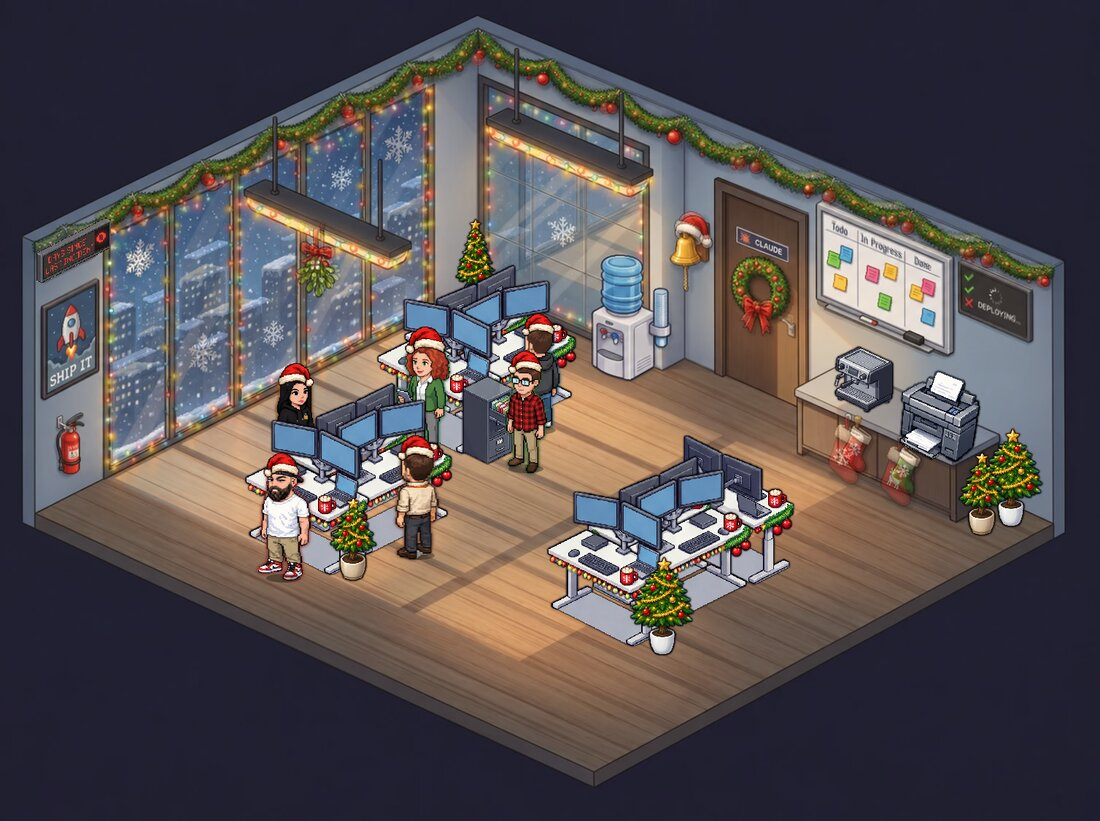
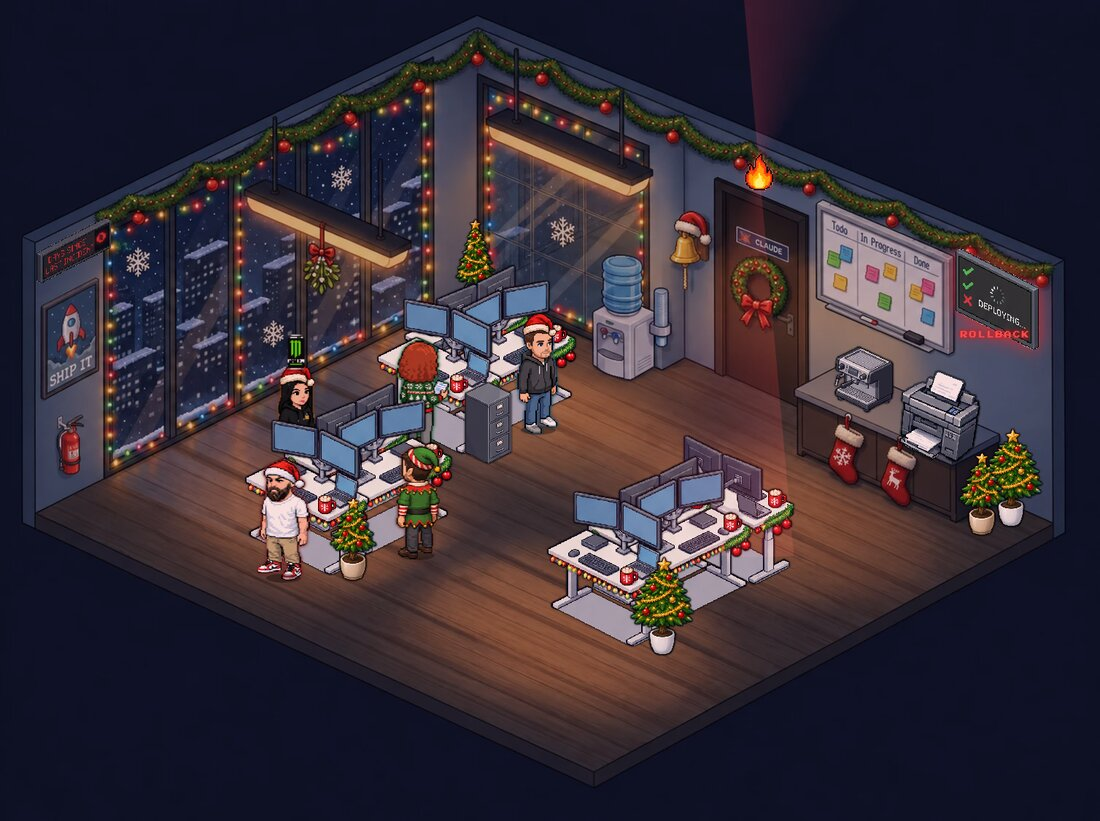
Christmas: elf Claude back, jumpers for ponytails and big hair, boss's cap becomes a Santa hat
- Claude-1 keeps the elf suit (festive copies restored).
- employee-2, erin-hannon and Frontend-dev-1, whom the one-size hat did not
  fit (ponytails, big hair), wear Christmas jumpers instead.
- Me-1's backwards cap is replaced by a Santa hat in the sprite itself.
- The overlay hat skips any sprite drawn from its festive copy, and the NO_HAT
  list (src/hat.ts) keeps it off those characters even before their art exists.

diff --git a/tests/hat.test.ts b/tests/hat.test.ts
@@ -1,7 +1,7 @@
 /** hat.ts - finding a sprite's head from its alpha channel. */
 import { readFileSync } from 'node:fs'
 import { describe, expect, it } from 'vitest'
-import { headAnchorFromAlpha } from '../src/hat'
+import { headAnchorFromAlpha, wearsOverlayHat } from '../src/hat'
 
 /** An alpha map of w x h with opaque rectangles [x0, y0, x1, y1) */
 function alphaWith(w: number, h: number, rects: Array<[number, number, number, number]>) {
@@ -29,5 +29,16 @@ describe('headAnchorFromAlpha', () => {
 
   it('the hat it is drawn from exists', () => {
     expect(readFileSync(new URL('../public/sprites/effects/santa-hat.png', import.meta.url)).length).toBeGreaterThan(1000)
+  })
+})
+
+describe('wearsOverlayHat', () => {
+  it('everyone gets the hat except festive copies and the ponytail / big-hair list', () => {
+    expect(wearsOverlayHat('/sprites/characters/dev-1-front-left.png')).toBe(true)
+    expect(wearsOverlayHat('/sprites/office/characters/jim-halpert-rear-right.png')).toBe(true)
+    expect(wearsOverlayHat('/sprites/characters/Claude-1-front-left-xmas.webp')).toBe(false)
+    expect(wearsOverlayHat('/sprites/characters/employee-2-front-right.png')).toBe(false)
+    expect(wearsOverlayHat('/sprites/office/characters/erin-hannon-rear-left.png')).toBe(false)
+    expect(wearsOverlayHat('/sprites/characters/Me-1-front-left.png')).toBe(false)
   })
 })

diff --git a/src/hat.ts b/src/hat.ts
@@ -13,6 +13,25 @@ import { useEffect, useState } from 'react'
 
 export const HAT_SRC = '/sprites/effects/santa-hat.png'
 
+// Why: on a ponytail, a bun or big hair the one-size hat sits wrong (judged
+// on all four directions of every cast sprite); these characters wear their
+// own festive sprite instead (a Christmas jumper, -xmas.webp), and until that
+// file exists they simply go without a hat rather than wear a bad one
+const NO_HAT = new Set(['employee-2', 'erin-hannon', 'Frontend-dev-1', 'Me-1'])
+
+/**
+ * Whether a sprite gets the overlay hat: not when it is already a festive
+ * copy (the elf, a jumper, a sprite with its own Santa hat), and not for the
+ * characters in NO_HAT.
+ * @param src the sprite URL being drawn
+ */
+export function wearsOverlayHat(src: string): boolean {
+  if (src.endsWith('-xmas.webp')) return false
+  const file = src.slice(src.lastIndexOf('/') + 1)
+  const base = file.replace(/-(front|rear)-(left|right)\.png$/, '')
+  return !NO_HAT.has(base)
+}
+
 /** Where the hat goes, as fractions of the sprite's width and height. */
 export interface HeadAnchor {
   /** Centre of the head, 0..1 from the left */

diff --git a/src/components/Character.tsx b/src/components/Character.tsx
@@ -1,5 +1,5 @@
 import { currentSeason, useSeasonArt } from '../season'
-import { HAT_SRC, useHeadAnchor } from '../hat'
+import { HAT_SRC, useHeadAnchor, wearsOverlayHat } from '../hat'
 import React, { useRef, useState, useEffect } from 'react'
 import { Agent, AgentState } from '../types'
 import SpeechBubble from './SpeechBubble'
@@ -162,7 +162,7 @@ const Character: React.FC<CharacterProps> = ({ agent, idleDurationMs = 0, zIndex
   const spriteSrc = getSpritePath(agent.id, agent.role, charBase, directionRef.current)
   // In December everyone wears a Santa hat, placed on the head measured from
   // the sprite itself (src/hat.ts), so every cast and custom sprite gets one
-  const head = useHeadAnchor(spriteSrc, currentSeason() === 'christmas')
+  const head = useHeadAnchor(spriteSrc, currentSeason() === 'christmas' && wearsOverlayHat(spriteSrc))
   void theme
   const variant = useVariant() // Why: re-render when incident mode flips so the failure bubble shows/hides
   void variant

diff --git a/docs/reference.md b/docs/reference.md
@@ -225,7 +225,7 @@ Dated, Bedrock and Vertex spellings of an id count as the id. The reading refres
 
 ## Christmas
 
-From 1 December to 6 January the office decorates itself: tinsel, fairy lights and snow outside in all four rooms (day and night, both themes), Christmas trees in the plant pots, garlands and a mug on every desk, and a Santa hat on everyone. The hat is one sprite (`public/sprites/effects/santa-hat.png`) placed on each character's head as measured from that sprite's own pixels (`src/hat.ts`: the top of the hair, and the head's width 8% of the sprite's height below it), so the whole cast, the Dunder Mifflin cast and a custom boss sprite all get one with no per-sprite numbers. `?season=christmas` turns it on any day (a demo, a screenshot), `?season=none` keeps it off in December; the date is judged once per page load.
+From 1 December to 6 January the office decorates itself: tinsel, fairy lights and snow outside in all four rooms (day and night, both themes), Christmas trees in the plant pots, garlands and a mug on every desk, and a Santa hat on everyone. The hat is one sprite (`public/sprites/effects/santa-hat.png`) placed on each character's head as measured from that sprite's own pixels (`src/hat.ts`: the top of the hair, and the head's width 8% of the sprite's height below it), so the whole cast, the Dunder Mifflin cast and a custom boss sprite all get one with no per-sprite numbers. A few characters wear their own festive sprite instead (a `-xmas.webp` copy, which also turns the overlay hat off): Claude is an elf, the boss's cap becomes a Santa hat, and the characters a one-size hat sits badly on — ponytails and big hair, listed in `NO_HAT` in `src/hat.ts` — wear Christmas jumpers. `?season=christmas` turns it on any day (a demo, a screenshot), `?season=none` keeps it off in December; the date is judged once per page load.
 
 ![The office at Christmas](images/christmas.jpg)
 

diff --git a/CHANGELOG.md b/CHANGELOG.md
@@ -4,7 +4,7 @@ All notable changes to Claude Office. Numbers refer to pull requests.
 
 ## Unreleased
 
-- Christmas in the office, from 1 December to 6 January: decorated rooms (day and night, both themes), Christmas trees in the plant pots, festive desks, and a Santa hat on every character (one hat sprite, placed on each head as measured from the sprite itself). `?season=christmas` / `?season=none` override the date. Each festive image is an optional `-xmas.webp` copy beside the original, so a missing one just shows the normal art.
+- Christmas in the office, from 1 December to 6 January: decorated rooms (day and night, both themes), Christmas trees in the plant pots, festive desks, and a Santa hat on every character (one hat sprite, placed on each head as measured from the sprite itself). Claude dresses as an elf, the boss swaps his cap for a Santa hat, and characters with ponytails or big hair wear Christmas jumpers instead of the hat. `?season=christmas` / `?season=none` override the date. Each festive image is an optional `-xmas.webp` copy beside the original, so a missing one just shows the normal art.
 
 ## 1.1.2 — 2026-11-09
 
